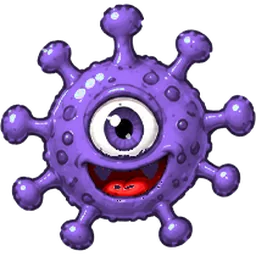
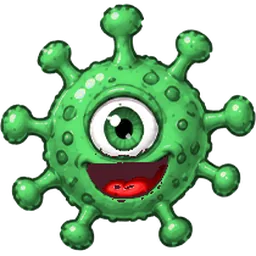
feat(ns4-44): one-eyed virus stays leaf green (user request), maroon mouths

diff --git a/tools/viruses/prepare_viruses.py b/tools/viruses/prepare_viruses.py
@@ -16,6 +16,7 @@ from pathlib import Path
 import numpy as np
 from PIL import Image
 from scipy import ndimage
+from scipy.spatial import Delaunay
 
 ROOT = Path(__file__).resolve().parents[2]
 SRC = ROOT / "public" / "images" / "virüsler"
@@ -24,14 +25,16 @@ SIZE = 256
 
 # kaynak → hedef ton (derece), doygunluk sınırı, parlaklık çarpanı, kaş yumuşatma
 VIRUSES = [
-    {"src": "bacteria.png", "hue": 262.0, "sat": 0.55, "val": 1.0, "brows": False},  # leylak
-    {"src": "bacteria2.png", "hue": 328.0, "sat": 0.62, "val": 1.0, "brows": True},  # pembe
+    # tek gözlü virüs: kullanıcı isteğiyle (2026-11-10) yeşil kalır; limon/sarı-yeşil değil, temiz yaprak yeşili
+    {"src": "bacteria.png", "hue": 128.0, "sat": 0.58, "val": 0.92, "brows": False, "green": True, "fill_mouth": True},
+    {"src": "bacteria2.png", "hue": 328.0, "sat": 0.62, "val": 1.0, "brows": True, "fill_mouth": True},  # pembe
     {"src": "bacteria3.png", "hue": 336.0, "sat": 0.66, "val": 0.74, "brows": False},  # bordo
 ]
 
 GREEN = (50.0, 175.0)  # yeşil-sarı ton aralığı (boyanacak gövde)
 SHINE_KEEP = 0.45  # parlak beneklerin korunan oranı
-BUMP_SMOOTH = 0.35  # kabarcık kontrastı: değer kanalının yumuşatılmış hâline karışım
+BUMP_SMOOTH = 0.35
+MOUTH_HUE = 345.0  # ağız içi: koyu bordo (her virüste aynı; yeşil ya da kahverengi değil)  # kabarcık kontrastı: değer kanalının yumuşatılmış hâline karışım
 
 
 def rgb_to_hsv(rgb: np.ndarray) -> np.ndarray:
@@ -125,13 +128,17 @@ def process(cfg: dict) -> Image.Image:
         box = (ys >= y0) & (ys <= y1) & (xs >= x0) & (xs <= x1)
         teeth = vis & (sat < 0.38) & (val > 0.42) & box & ~eyes & ~green
         teeth = ndimage.binary_dilation(teeth, iterations=2) & vis & ~eyes & box & ~green & ~mouth
-        if cfg["brows"]:
-            # sivri dişli geniş sırıtış: dil dışındaki bütün ağız içi koyulaşır (diş konturları da kalmaz)
+        if cfg.get("fill_mouth"):
+            # sivri dişli ağız: kırmızı ağız bölgesinin dışbükey zarfı içinde dil dışındaki her şey koyulaşır
+            # (diş konturları ve gölgeleri de kalmaz)
+            pts = np.argwhere(ndimage.binary_dilation(mouth, iterations=2))
+            hull = Delaunay(pts)
+            inside = (hull.find_simplex(np.stack([ys.ravel(), xs.ravel()], -1)) >= 0).reshape(H, W)
             light = vis & (val > 0.55) & (sat < 0.5)
-            teeth = box & vis & ~eyes & ~tongue & ((~green & ~outline) | light)
+            teeth = (inside & vis & ~eyes & ~tongue) | (box & vis & ~eyes & ~tongue & ((~green & ~outline) | light))
         # ağız içi koyu mürdüm (kahverengi değil): dişler ağzın gölgesine karışır
-        out[..., 0] = np.where(teeth, cfg["hue"], out[..., 0])
-        out[..., 1] = np.where(teeth, 0.58, out[..., 1])
+        out[..., 0] = np.where(teeth, MOUTH_HUE, out[..., 0])
+        out[..., 1] = np.where(teeth, 0.62, out[..., 1])
         out[..., 2] = np.where(teeth, 0.3, out[..., 2])
     else:
         teeth = np.zeros_like(vis)
@@ -233,7 +240,7 @@ def main() -> None:
     outs = []
     for i, cfg in enumerate(VIRUSES, start=1):
         img = process(cfg)
-        assert not mean_hue_is_green(img), f"virus-{i} hâlâ yeşil"
+        assert cfg.get("green") or not mean_hue_is_green(img), f"virus-{i} hâlâ yeşil"
         img.save(OUT / f"virus-{i}.webp", "WEBP", quality=82, method=6)
         outs.append(img)
         print(f"virus-{i}.webp", (OUT / f"virus-{i}.webp").stat().st_size, "bayt")

diff --git a/docs/superpowers/specs/2026-11-10-virus-avi-design.md b/docs/superpowers/specs/2026-11-10-virus-avi-design.md
@@ -74,6 +74,7 @@ Mekanik için de üç seçenek konuşuldu: **A) kapsül + renksiz 4'lü (seçild
 ### 7.3 Virüs görselleri
 
 - Üç görsel, yeniden çizilmeden, oyunun **leylak, pembe ve bordo** tonlarına boyanır (`--color-pressure`, `--color-pressure-soft`, `--color-cyclamen`, `--color-cyclamen-strong` ailesi). Yeşil kalmaz.
+- **Güncelleme (2026-11-10, kullanıcı onayı 1):** tek gözlü virüs (`virus-1`) kullanıcı isteğiyle **yeşil** kalır ("tatlı dursun, virüs olduğu belli olsun"). Limon/sarı-yeşil değil, temiz yaprak yeşili (ton 128°); diğer ikisi pembe ve bordo. Ağız içleri her üçünde koyu bordo. Doktor Elif dört pozuyla onaylandı (onay 2).
 - `bacteria2`'nin kızgın kaşları ve sivri dişleri yumuşatılır; sevimli ya da şaşkın bir ifadeye çevrilir.
 - Aynı görseller hem lenste hem tahta hücrelerinde kullanılır.
 
